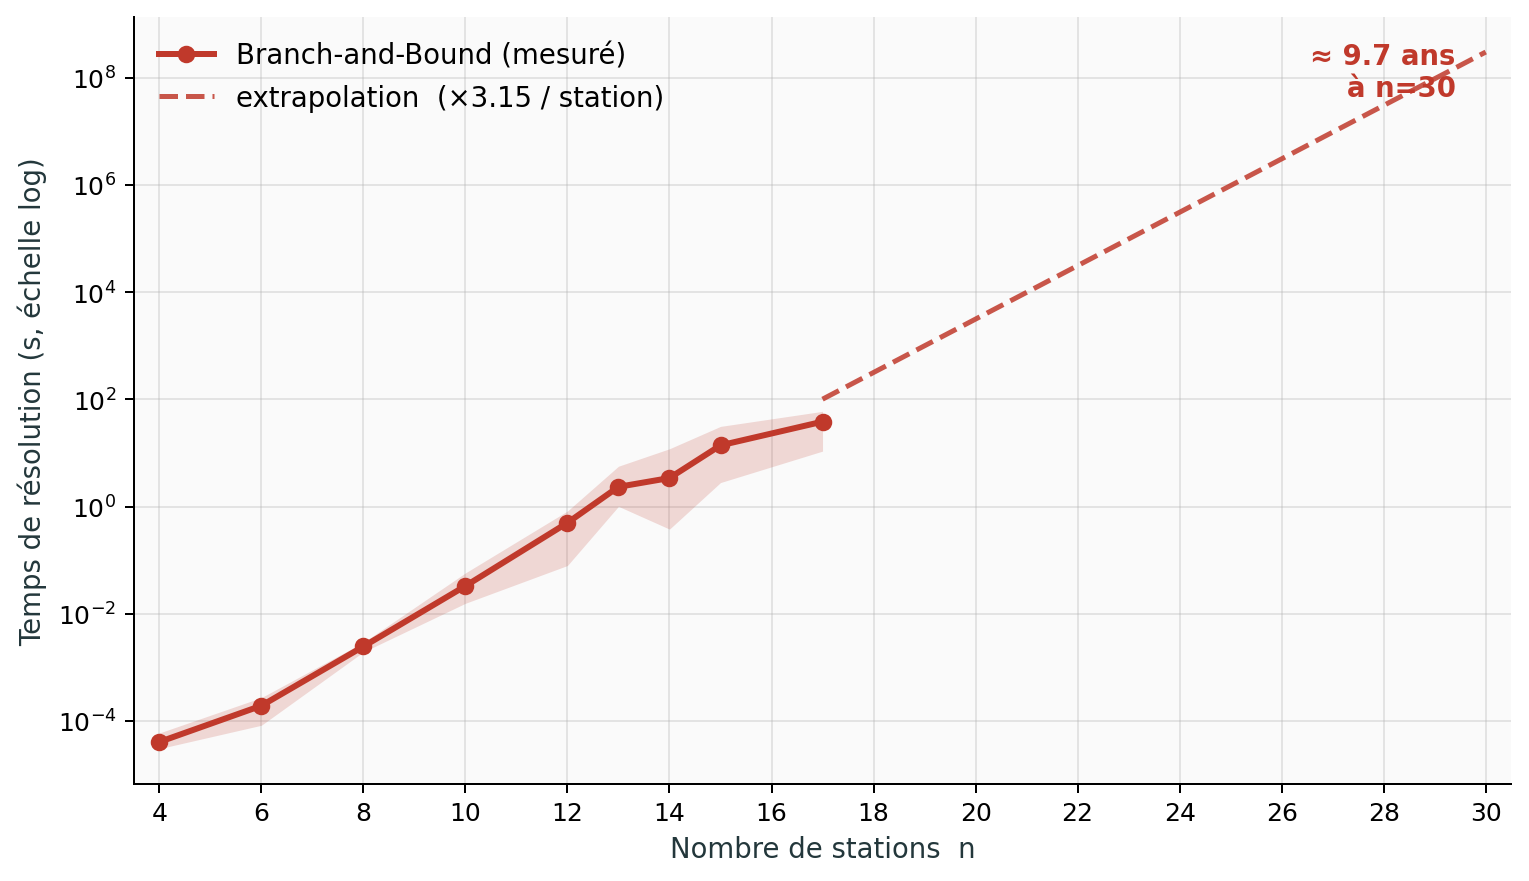
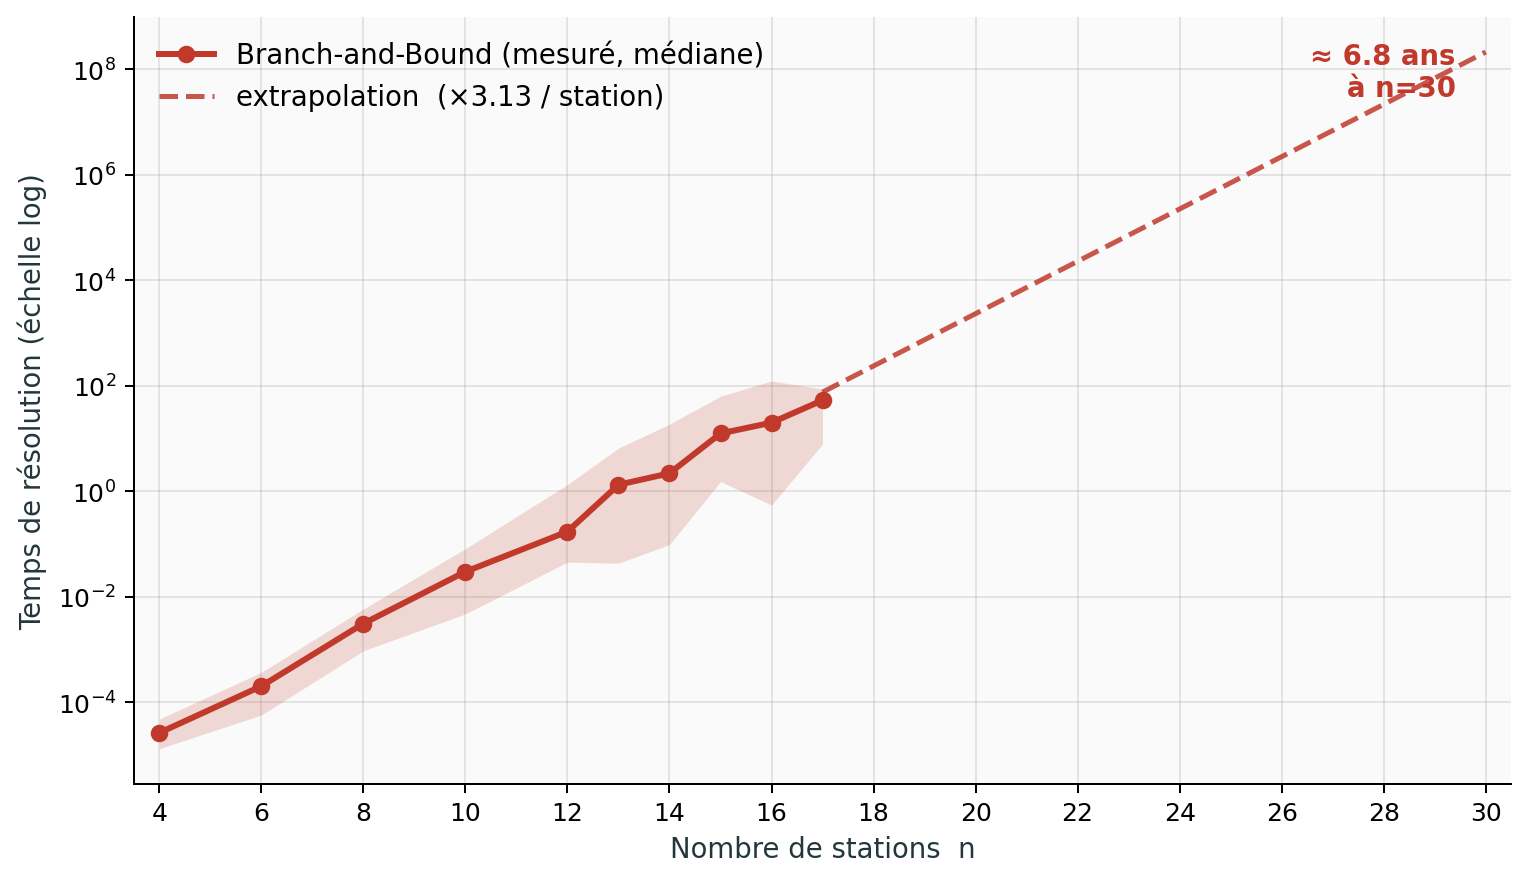
update

diff --git a/renders/simulate_modal.py b/renders/simulate_modal.py
@@ -260,31 +260,36 @@ def render_stratified(results: list[dict], out_path: str) -> str:
         t0 = ref_times[0]
         x = np.array([(t - t0).total_seconds() / 3600.0 for t in ref_times])
 
-        # Moyenne ± écart-type (au lieu de médiane + IQR) — on montre la
-        # dispersion réelle des journées de la strate, pas seulement le
-        # central 50 %.
+        # Moyenne ± SEM (écart-type / √N) — la bande montre la **précision
+        # sur la moyenne**, pas la dispersion individuelle des jours.
+        # Avec N=10, on connaît la moyenne ~3× mieux que la variabilité
+        # jour-à-jour. C'est la quantité pertinente pour valider une
+        # méthode sur ce sous-échantillon.
+        sqrtN = max(1.0, np.sqrt(len(rs)))
         base_mean = base_arr.mean(axis=0)
         opt_mean  = opt_arr.mean(axis=0)
-        base_std  = base_arr.std(axis=0, ddof=1) if len(rs) > 1 else np.zeros_like(base_mean)
-        opt_std   = opt_arr.std(axis=0, ddof=1)  if len(rs) > 1 else np.zeros_like(opt_mean)
+        base_sem  = (base_arr.std(axis=0, ddof=1) / sqrtN
+                     if len(rs) > 1 else np.zeros_like(base_mean))
+        opt_sem   = (opt_arr.std(axis=0, ddof=1) / sqrtN
+                     if len(rs) > 1 else np.zeros_like(opt_mean))
 
-        ax.fill_between(x, base_mean - base_std, base_mean + base_std,
-                        color="#6c7a89", alpha=0.18)
+        ax.fill_between(x, base_mean - base_sem, base_mean + base_sem,
+                        color="#6c7a89", alpha=0.22)
         ax.plot(x, base_mean, color="#6c7a89", ls="--", lw=2,
-                label="Réalité (moyenne ± σ)")
-        ax.fill_between(x, opt_mean - opt_std, opt_mean + opt_std,
-                        color="#2d5a9e", alpha=0.20)
+                label="Réalité (moyenne ± SEM)")
+        ax.fill_between(x, opt_mean - opt_sem, opt_mean + opt_sem,
+                        color="#2d5a9e", alpha=0.24)
         ax.plot(x, opt_mean, color="#2d5a9e", ls="-", lw=2.5,
-                label="+ 1 camion (moyenne ± σ)")
+                label="+ 1 camion (moyenne ± SEM)")
 
-        # Statistique sur le gain total : moyenne et écart-type des gains
-        # par jour (plus parlant que (mean_base − mean_opt) / mean_base).
+        # Gain par jour : moyenne, et SEM de la moyenne (= σ/√N).
         per_day_gain = np.array([
             (b - o) / b * 100 if b > 0 else 0.0
             for b, o in zip(base_arr[:, -1], opt_arr[:, -1])
         ])
         g_mean = per_day_gain.mean()
-        g_std  = per_day_gain.std(ddof=1) if len(per_day_gain) > 1 else 0.0
+        g_sem  = (per_day_gain.std(ddof=1) / sqrtN
+                  if len(per_day_gain) > 1 else 0.0)
         n_bad  = int((per_day_gain < 0).sum())
         # Convention : gain positif = rupture diminuée (bénéfique).
         # On signe explicitement Δrupture (négatif = bon).
@@ -292,7 +297,7 @@ def render_stratified(results: list[dict], out_path: str) -> str:
         sign = "−" if delta <= 0 else "+"
         bad_note = f"  ·  {n_bad}/{len(rs)} dégradés" if n_bad > 0 else ""
         ax.set_title(f"{_stratum_label(stratum)}  ·  {len(rs)} j  ·  "
-                     f"Δrupture = {sign}{abs(delta):.1f}% ± {g_std:.1f}%"
+                     f"Δrupture = {sign}{abs(delta):.1f}% ± {g_sem:.1f}%"
                      f"{bad_note}",
                      fontsize=10.5, fontweight="bold", pad=8)
         ax.legend(loc="upper left", fontsize=9, framealpha=0.9)
@@ -308,7 +313,7 @@ def render_stratified(results: list[dict], out_path: str) -> str:
     n_ok = sum(len(v) for v in by_stratum.values())
     fig.suptitle(f"Valeur marginale d'1 camion supplémentaire (boucle "
                  f"{TRUCK_START}→{TRUCK_END}, repos {TRUCK_REST_MIN} min)\n"
-                 f"Bicloo Nantes sur {n_ok} jours"
+                 f"Bicloo Nantes sur {n_ok} jours  ·  bande = SEM (σ/√N)"
                  + (f"  ({n_failed} échecs)" if n_failed else ""),
                  fontsize=13, fontweight="bold", y=1.005)
     fig.tight_layout()
@@ -318,7 +323,8 @@ def render_stratified(results: list[dict], out_path: str) -> str:
 
 
 def _print_summary(results: list[dict]) -> None:
-    """Récap chiffré par strate (moyenne ± écart-type sur les jours)."""
+    """Récap chiffré par strate (moyenne ± SEM sur les jours)."""
+    import math
     import statistics
     by_stratum: dict[tuple[DayType, Season], list[dict]] = defaultdict(list)
     for r in results:
@@ -326,10 +332,10 @@ def _print_summary(results: list[dict]) -> None:
             d = date.fromisoformat(r["date"])
             by_stratum[(_day_type(d), _season(d))].append(r)
     print()
-    print(f"  {'Strate':<35}  {'N':>3}  {'Baseline':>16}  "
-          f"{'Optimisé':>16}  {'Gain moy. ± σ':>17}  {'dégr.':>7}")
-    print(f"  {'─' * 35}  {'─' * 3}  {'─' * 16}  {'─' * 16}  "
-          f"{'─' * 17}  {'─' * 7}")
+    print(f"  {'Strate':<35}  {'N':>3}  {'Baseline (méd.)':>15}  "
+          f"{'Optimisé (méd.)':>15}  {'Δrupture moy. ± SEM':>21}  {'dégr.':>7}")
+    print(f"  {'─' * 35}  {'─' * 3}  {'─' * 15}  {'─' * 15}  "
+          f"{'─' * 21}  {'─' * 7}")
     for stratum in [(DayType.WD, Season.COLD), (DayType.WE, Season.COLD),
                     (DayType.WD, Season.WARM), (DayType.WE, Season.WARM)]:
         rs = by_stratum.get(stratum, [])
@@ -339,14 +345,17 @@ def _print_summary(results: list[dict]) -> None:
         opt  = [r["optimized"].total_rupture_min for r in rs]
         per_day_gain = [(b - o) / b * 100 if b > 0 else 0
                         for b, o in zip(base, opt)]
-        bm = statistics.fmean(base); bs = statistics.stdev(base) if len(base) > 1 else 0
-        om = statistics.fmean(opt);  os_ = statistics.stdev(opt) if len(opt) > 1 else 0
+        bm = statistics.median(base)
+        om = statistics.median(opt)
         gm = statistics.fmean(per_day_gain)
-        gs = statistics.stdev(per_day_gain) if len(per_day_gain) > 1 else 0
+        gsd = statistics.stdev(per_day_gain) if len(per_day_gain) > 1 else 0.0
+        gsem = gsd / math.sqrt(len(per_day_gain))
         n_bad = sum(1 for g in per_day_gain if g < 0)
+        # Convention : Δrupture < 0 = bon (rupture réduite)
+        delta = -gm
         print(f"  {_stratum_label(stratum):<35}  {len(rs):>3}  "
-              f"{bm:>8.0f} ± {bs:>4.0f}  {om:>8.0f} ± {os_:>4.0f}  "
-              f"{gm:>+8.1f}% ± {gs:>4.1f}%  {n_bad:>3d}/{len(rs):<3d}")
+              f"{bm:>11.0f} min  {om:>11.0f} min  "
+              f"{delta:>+10.1f}% ± {gsem:>4.1f}%  {n_bad:>3d}/{len(rs):<3d}")
 
 
 def _save_local_cache(results: list[dict]) -> None:

diff --git a/renders/targets_pipeline.py b/renders/targets_pipeline.py
@@ -1,0 +1,166 @@
+"""Schema de la chaine de calcul des cibles b_i (slide cibles).
+
+Pipeline en Y :
+
+  [ Acquisition ]──► [ Current  c_i ]──┐
+                                       ├──► [ b_i = t_i - c_i ]
+                  └► [ Skelam + proba  ]
+                     [ → Target  t_i  ]┘
+
+Produit : renders/targets_pipeline.png
+"""
+
+from pathlib import Path
+
+import matplotlib.pyplot as plt
+from matplotlib.patches import FancyArrowPatch, FancyBboxPatch
+
+OUT = Path("renders/targets_pipeline.png")
+
+# Palette presentation
+COL_DATA_BG    = "#D6EAF8"
+COL_DATA_ED    = "#2980B9"
+COL_CURR_BG    = "#E8F0FA"
+COL_CURR_ED    = "#5DADE2"
+COL_TARG_BG    = "#FCEFE1"
+COL_TARG_ED    = "#F39C12"
+COL_OUT_BG     = "#E8F8EF"
+COL_OUT_ED     = "#27AE60"
+COL_ARROW      = "#23373B"
+TEXT_DARK      = "#23373B"
+
+
+def box(ax, xy, w, h, lines, *, face, edge, lw=2.0, header=None):
+    """Cadre arrondi avec libelle multi-ligne.
+
+    `lines` : liste de tuples (text, fontsize, bold).
+    """
+    x, y = xy
+    patch = FancyBboxPatch(
+        (x - w / 2, y - h / 2), w, h,
+        boxstyle="round,pad=0.04,rounding_size=0.20",
+        facecolor=face, edgecolor=edge, linewidth=lw, zorder=2,
+    )
+    ax.add_patch(patch)
+
+    if header is not None:
+        ax.text(x - w / 2 + 0.18, y + h / 2 - 0.22, header,
+                ha="left", va="center", fontsize=9,
+                color=edge, fontweight="bold", zorder=3)
+
+    n = len(lines)
+    line_h = 0.36
+    y0 = y + (n - 1) * line_h / 2
+    for k, (text, fs, bold) in enumerate(lines):
+        ax.text(x, y0 - k * line_h, text,
+                ha="center", va="center",
+                fontsize=fs, color=TEXT_DARK,
+                fontweight=("bold" if bold else "normal"), zorder=3)
+
+
+def arrow(ax, p, q, *, label=None, label_pos="mid", label_dy=0.30,
+          color=COL_ARROW, lw=2.4):
+    a = FancyArrowPatch(
+        p, q,
+        arrowstyle="-|>",
+        mutation_scale=18,
+        color=color, linewidth=lw,
+        shrinkA=4, shrinkB=4,
+        zorder=4,
+    )
+    ax.add_patch(a)
+    if label is not None:
+        mx = (p[0] + q[0]) / 2
+        my = (p[1] + q[1]) / 2 + label_dy
+        ax.text(mx, my, label,
+                ha="center", va="center",
+                fontsize=10, color=TEXT_DARK,
+                fontstyle="italic", zorder=5)
+
+
+def main():
+    fig, ax = plt.subplots(figsize=(13.5, 5.6))
+
+    BW, BH = 3.4, 1.85
+    BW_MID, BH_MID = 4.2, 1.95
+
+    p_data = (-5.4,  0.0)
+    p_curr = ( 0.0,  1.55)      # branche haute
+    p_targ = ( 0.0, -1.55)      # branche basse
+    p_out  = ( 5.4,  0.0)
+
+    # --- Boites -------------------------------------------------------------
+    box(ax, p_data, BW, BH,
+        lines=[
+            ("Acquisition", 13, True),
+            ("des données", 13, True),
+            ("",             4, False),
+            ("API Bicloo",            10, False),
+            ("→ SQL (historique)",   10, False),
+        ],
+        face=COL_DATA_BG, edge=COL_DATA_ED)
+
+    box(ax, p_curr, BW_MID, BH_MID,
+        lines=[
+            (r"Current  $c_i$", 13, True),
+            ("",                 4, False),
+            ("nombre de vélos",  10, False),
+            ("actuellement à $i$", 10, False),
+        ],
+        face=COL_CURR_BG, edge=COL_CURR_ED)
+
+    box(ax, p_targ, BW_MID, BH_MID,
+        lines=[
+            (r"Target  $t_i$",                    13, True),
+            ("Skelam  +  méthode probabiliste",   11, True),
+            ("",                                    4, False),
+            ("nombre de vélos idéal",             10, False),
+            ("prédit à partir de l'historique",   10, False),
+        ],
+        face=COL_TARG_BG, edge=COL_TARG_ED)
+
+    box(ax, p_out, BW, BH,
+        lines=[
+            (r"$b_i = t_i - c_i$", 15, True),
+            ("",                    4, False),
+            ("écart à combler",    10, False),
+            ("pour chaque station", 10, False),
+        ],
+        face=COL_OUT_BG, edge=COL_OUT_ED)
+
+    # --- Fleches ------------------------------------------------------------
+    # acquisition -> current (haut)
+    arrow(ax, (p_data[0] + BW / 2, p_data[1] + 0.55),
+              (p_curr[0] - BW_MID / 2, p_curr[1]),
+              label="lecture\ndirecte", label_dy=0.55)
+    # acquisition -> target (bas)
+    arrow(ax, (p_data[0] + BW / 2, p_data[1] - 0.55),
+              (p_targ[0] - BW_MID / 2, p_targ[1]),
+              label="prédiction\npar historique", label_dy=-0.65)
+
+    # current -> b_i
+    arrow(ax, (p_curr[0] + BW_MID / 2, p_curr[1]),
+              (p_out[0]  - BW / 2,     p_out[1] + 0.55),
+              label="$c_i$", label_dy=0.45)
+    # target -> b_i
+    arrow(ax, (p_targ[0] + BW_MID / 2, p_targ[1]),
+              (p_out[0]  - BW / 2,     p_out[1] - 0.55),
+              label="$t_i$", label_dy=-0.55)
+
+    # --- Titre & limites ----------------------------------------------------
+    ax.set_title("Des données aux écarts à combler  $b_i = t_i - c_i$",
+                 fontsize=13, color=TEXT_DARK, pad=12)
+
+    ax.set_xlim(-7.8, 7.8)
+    ax.set_ylim(-3.0, 3.0)
+    ax.set_aspect("equal")
+    ax.axis("off")
+
+    fig.tight_layout()
+    fig.savefig(OUT, dpi=180, bbox_inches="tight", facecolor="white")
+    plt.close(fig)
+    print(f"saved -> {OUT}")
+
+
+if __name__ == "__main__":
+    main()

diff --git a/renders/bb_timing.py b/renders/bb_timing.py
@@ -326,7 +326,7 @@ def render(data: dict) -> None:
 
     ax.set_yscale("log")
     ax.set_xlabel("Nombre de stations  n", fontsize=11, color=TEXT)
-    ax.set_ylabel("Temps de résolution (s, échelle log)", fontsize=11, color=TEXT)
+    ax.set_ylabel("Temps de résolution (échelle log)", fontsize=11, color=TEXT)
     ax.set_xticks(list(range(4, 31, 2)))
     ax.set_xlim(3.5, 30.5)
     ax.grid(True, alpha=0.3, which="both")
